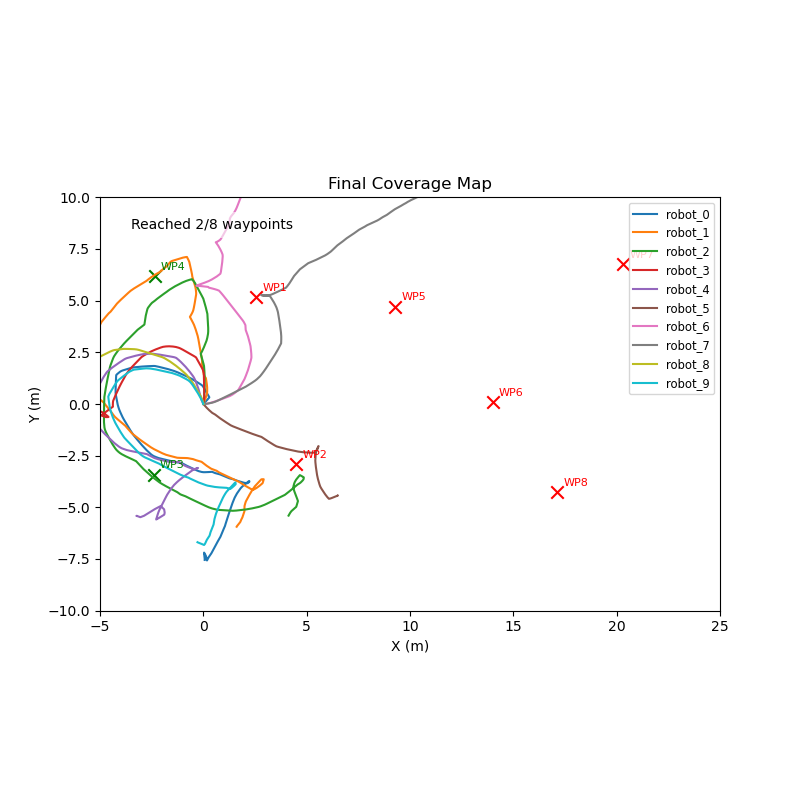
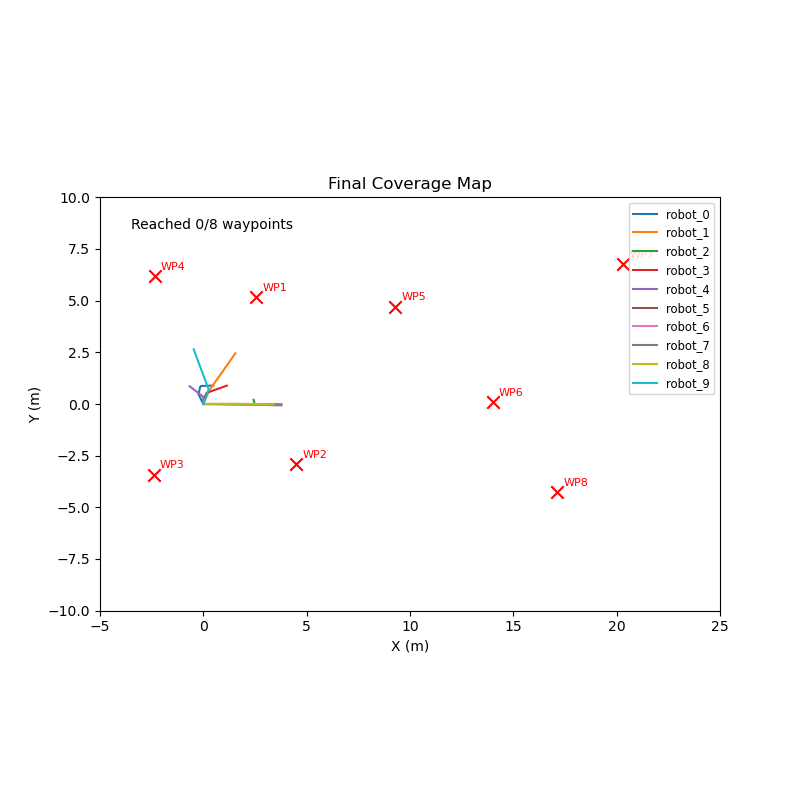
levy walk added

diff --git a/swarm_basics/swarm_basics/robot_supervisor_3_movements.py b/swarm_basics/swarm_basics/robot_supervisor_3_movements.py
@@ -37,18 +37,11 @@ class RobotSupervisor(Node):
         self.min_front_distance = float("inf")
         self.obstacle_zones = []
 
-        # self.goal = (-8.0, 0.0)
-        # self.position = None
-        # self.yaw = 0.0
-        # self.goal_reached = False
-
-        # self.last_position = None
-        # self.last_progress_time = time.time()
-        # self.stuck_timeout = 3.0  # seconds with no progress before we trigger recovery
-
-
-        # Subscribe to odometry
-        # self.create_subscription(Odometry, 'odom', self.odom_callback, 10)
+        # Levy Walk
+        self.levy_state = "choosing"
+        self.levy_heading = 0.0
+        self.levy_remaining = 0.0
+        self.dt = 0.1  # loop period, adjust if you know your timer rate
 
 
         # Ensure all events have a callback entry
@@ -86,16 +79,12 @@ class RobotSupervisor(Node):
         self.timer = self.create_timer(0.1, self.timer_callback)
 
 
-    # def odom_callback(self, msg: Odometry):
-    #     # Extract robot position and orientation (yaw)
-    #     pos = msg.pose.pose.position
-    #     self.position = (pos.x, pos.y)
 
-    #     # Convert quaternion to yaw
-    #     q = msg.pose.pose.orientation
-    #     siny_cosp = 2.0 * (q.w * q.z + q.x * q.y)
-    #     cosy_cosp = 1.0 - 2.0 * (q.y * q.y + q.z * q.z)
-    #     self.yaw = atan2(siny_cosp, cosy_cosp)
+    # Levy Step Function 
+    def levy_step(self, mu=1.5, min_d=0.2, max_d=3.0):
+        u = np.random.uniform(0,1)
+        step = min_d * (1 - u)  ** (-1 / (mu - 1))
+        return float(np.clip(step, min_d, max_d))
 
     # -------------------------------
     # Depth / obstacle
@@ -139,7 +128,7 @@ class RobotSupervisor(Node):
             }
 
             # --- 2. Determine closest obstacle zone with corner fallback ---
-            OBSTACLE_THRESHOLD = 1.0  
+            OBSTACLE_THRESHOLD = 0.8  
             EPSILON = 0.05 # threshold for considering L ≈ R
 
             min_distance_overall = min(self.min_distances.values())
@@ -191,69 +180,6 @@ class RobotSupervisor(Node):
     def right_check(self, sup_data):
         return 'RIGHT' in self.obstacle_zones
             
-    # def navigate_to_goal(self):
-    #     if self.position is None:
-    #         return None  # Haven't received odometry yet
-
-    #     goal_x, goal_y = self.goal
-    #     x, y = self.position
-
-    #     dx = goal_x - x
-    #     dy = goal_y - y
-    #     distance = sqrt(dx**2 + dy**2)
-
-    #     # --- Progress tracking ---
-    #     if self.last_position is not None:
-    #         old_dx = goal_x - self.last_position[0]
-    #         old_dy = goal_y - self.last_position[1]
-    #         old_dist = sqrt(old_dx**2 + old_dy**2)
-
-    #         # if we didn't get closer to goal significantly
-    #         if abs(old_dist - distance) < 0.05:
-    #             if time.time() - self.last_progress_time > self.stuck_timeout:
-    #                 self.get_logger().warn("Robot stuck — triggering recovery rotation.")
-    #                 twist = Twist()
-    #                 twist.linear.x = 0.0
-    #                 twist.angular.z = 0.6  # spin in place
-    #                 time.sleep(0.3)
-    #                 self.last_progress_time = time.time()
-    #                 return twist
-    #         else:
-    #             self.last_progress_time = time.time()
-
-    #     self.last_position = (x, y)
-
-
-    #     if distance < 0.3:
-    #         self.goal_reached = True
-    #         twist = Twist()
-    #         twist.linear.x = 0.0
-    #         twist.angular.z = 0.0
-    #         self.cmd_pub.publish(twist)
-    #         self.get_logger().info("Goal reached!")
-    #         return None
-
-    #     # Desired heading to goal
-    #     desired_yaw = atan2(dy, dx)
-    #     yaw_error = desired_yaw - self.yaw
-    #     yaw_error = (yaw_error + pi) % (2 * pi) - pi  # normalize [-π, π]
-
-    #     twist = Twist()
-
-    #     # Simple proportional control
-    #     if abs(yaw_error) > 0.3:
-    #         twist.linear.x = 0.0
-    #         twist.angular.z = 0.5 * np.sign(yaw_error)
-    #     else:
-    #         # if obstacle detected, slow or stop
-    #         if self.obstacle_zones:
-    #             twist.linear.x = 0.0
-    #             twist.angular.z = 0.5 * random.choice([-1, 1])  # choose random escape
-    #         else:
-    #             twist.linear.x = 0.3
-    #             twist.angular.z = 0.0
-
-    #     return twist
 
 
     # -------------------------------
@@ -263,12 +189,29 @@ class RobotSupervisor(Node):
         twist = Twist()
 
         if ev_name == "EV_V1":     
-            # self.get_logger().info("Supervisor decision: RANDOM WALK")
-            twist.linear.x = random.uniform(0.1, 1.0)
-            twist.angular.z = random.uniform(0.1, 1.0)
-            # twist_ = self.navigate_to_goal()
-            # if twist_ is not None:
-            #    twist = twist_      
+            # self.get_logger().info("Supervisor decision: LEVY WALK")
+            # twist.linear.x = random.uniform(0.1, 1.0)
+            # twist.angular.z = random.uniform(0.1, 1.0)
+
+            if self.levy_state == "choosing":
+                self.levy_heading = random.uniform(-math.pi, math.pi)
+                self.levy_remaining = self.levy_step()
+                self.levy_state = "moving"
+
+            elif self.levy_state == "moving":
+                twist.linear.x = 0.3
+                twist.angular.z = 0.0
+
+                # Decrease remaining distance based on travel
+                self.levy_remaining -= twist.linear.x * self.dt
+
+                # Occasionally inject small angular noise (to avoid straight-line lock)
+                twist.angular.z = random.uniform(-0.05, 0.05)
+
+                # If reached target or obstacle triggers another event, reset
+                if self.levy_remaining <= 0:
+                    self.levy_state = "choosing"    
+                
                 
         elif ev_name == "EV_V0":       
             # self.get_logger().info("Supervisor decision: CORNER")
